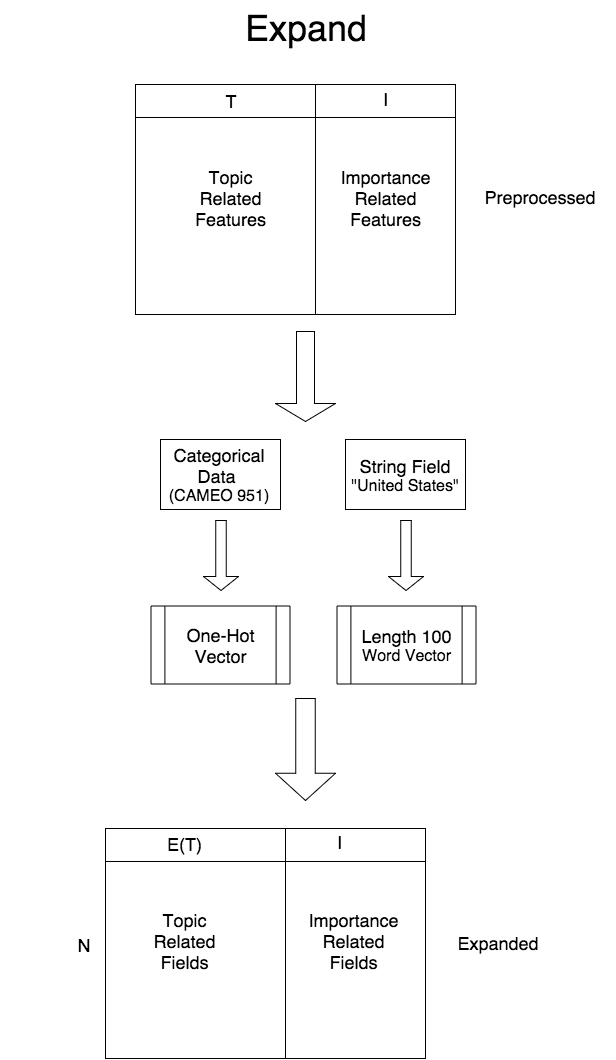
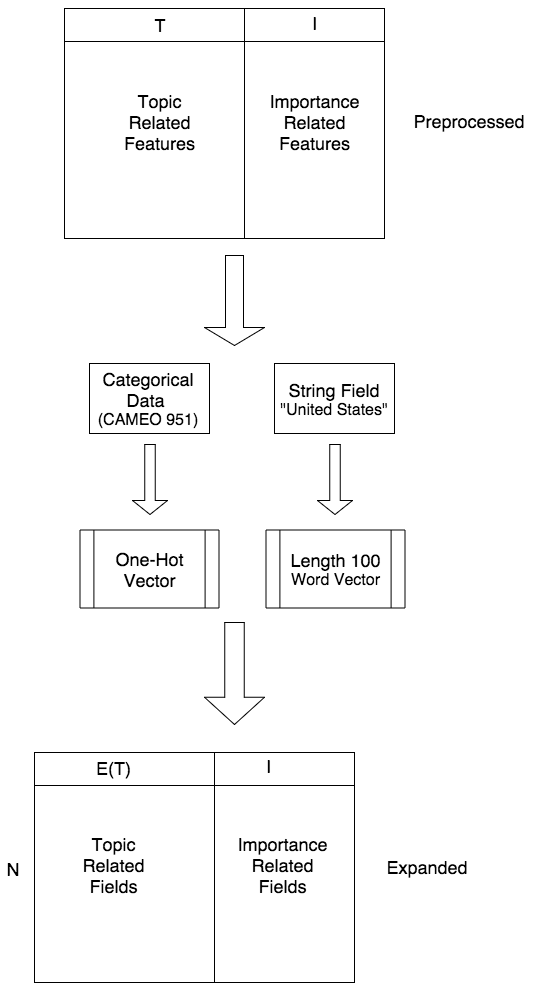
Crop and recompile

diff --git a/paper-latex/methods.tex b/paper-latex/methods.tex
@@ -40,7 +40,7 @@ Raw data starts with 58 columns. Mean line count is ..., standard deviation ....
 \begin{figure}[ht]
 \vskip 0.2in
 \begin{center}
-\centerline{\includegraphics[width=\columnwidth]{images/expand_vertical.png}}
+\centerline{\includegraphics[scale=0.15]{images/expand_vertical.png}}
 \caption{Expansion stage}
 \end{center}
 \vskip -0.2in
